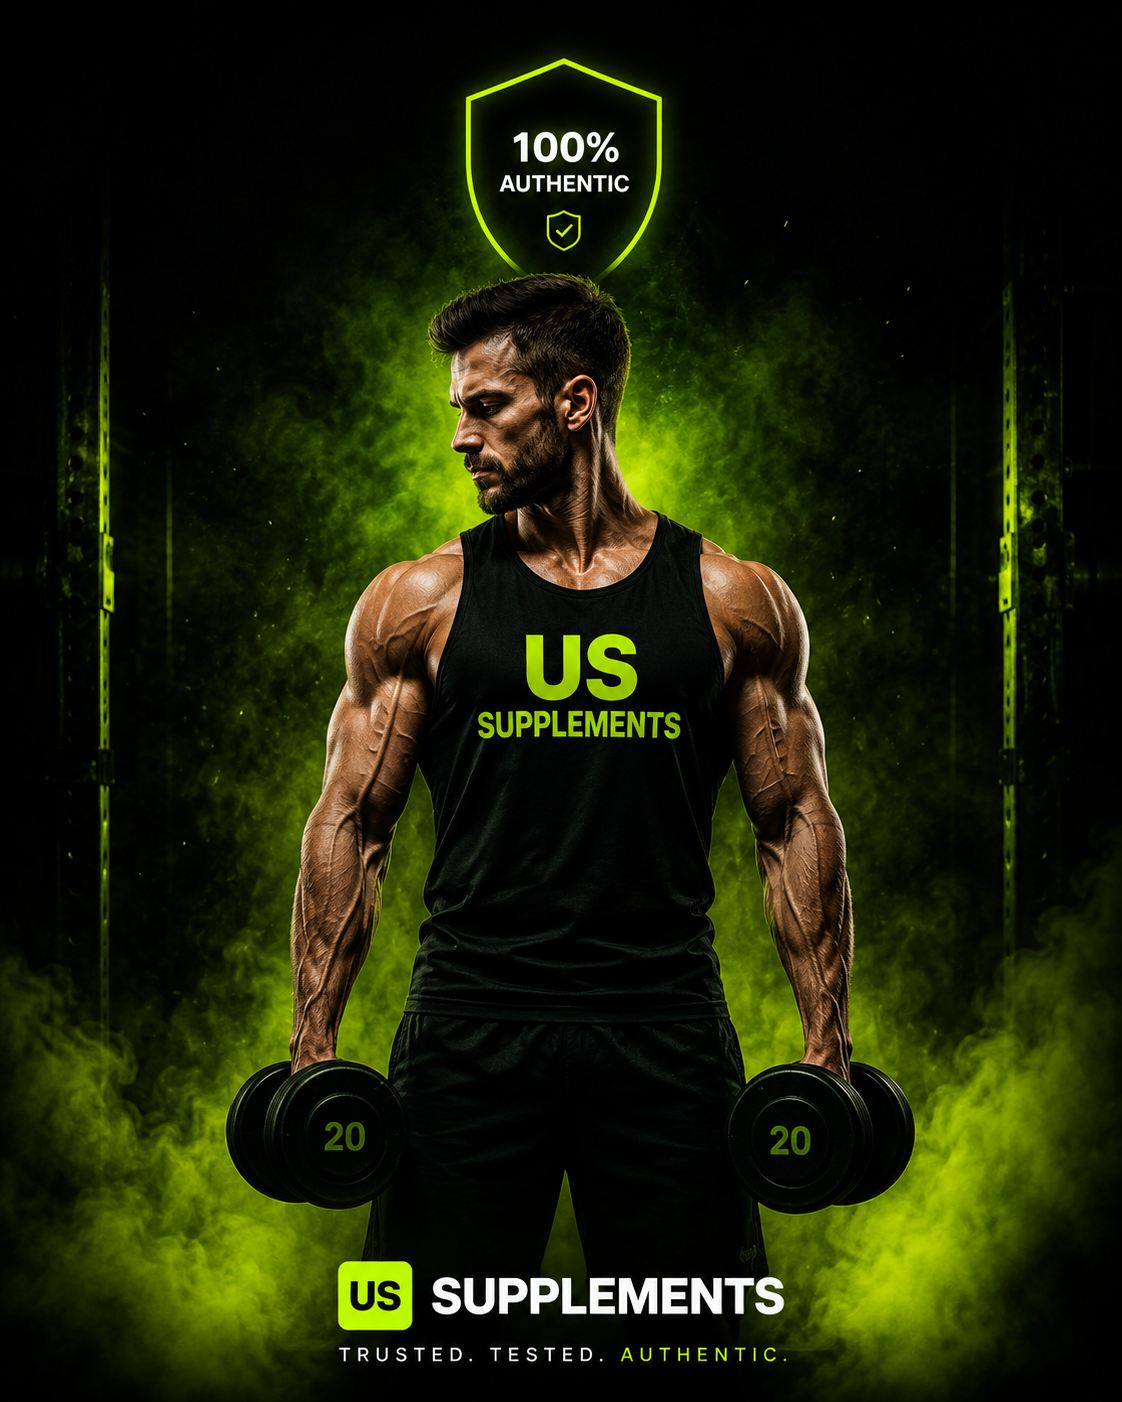
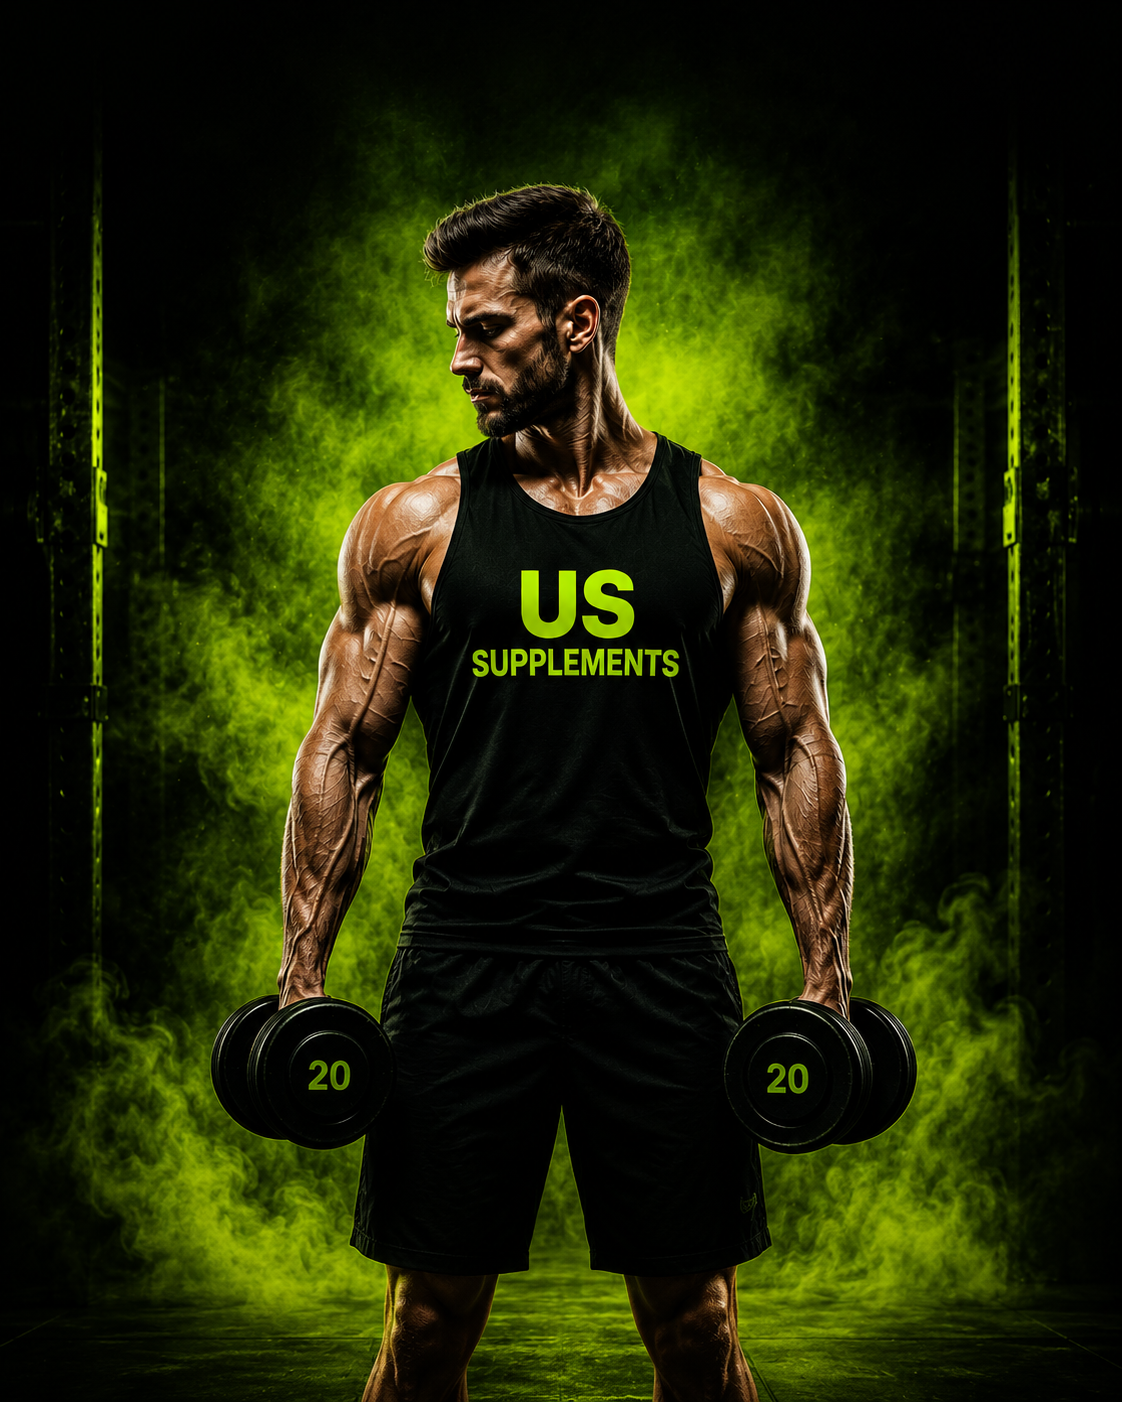
update the model image

diff --git a/src/app/authenticity/AuthenticityClient.js b/src/app/authenticity/AuthenticityClient.js
@@ -268,19 +268,19 @@ export default function AuthenticityClient() {
               className="w-full h-full object-contain object-bottom"
             />
             <div className="absolute top-2 right-2 flex flex-col items-center justify-center w-24 h-28 drop-shadow-[0_0_18px_rgba(198,255,30,0.35)]">
-              {/* <svg viewBox="0 0 100 116" className="absolute inset-0 w-full h-full">
+              <svg viewBox="0 0 100 116" className="absolute inset-0 w-full h-full">
                 <path
                   d="M50 2 L94 18 V56 C94 84 74 102 50 114 C26 102 6 84 6 56 V18 Z"
                   fill="rgba(10,11,13,0.55)"
                   stroke="#C6FF1E"
                   strokeWidth="1.5"
                 />
-              </svg> */}
-              {/* <div className="relative flex flex-col items-center justify-center gap-0.5 pt-1.5">
+              </svg>
+              <div className="relative flex flex-col items-center justify-center gap-0.5 pt-1.5">
                 <span className="text-white font-black text-base">100%</span>
                 <span className="text-white text-[8px] font-bold tracking-wider uppercase -mt-1">Authentic</span>
                 <ShieldCheck className="w-3.5 h-3.5 text-[#C6FF1E] mt-0.5" strokeWidth={2.5} />
-              </div> */}
+              </div>
             </div>
           </div>
 